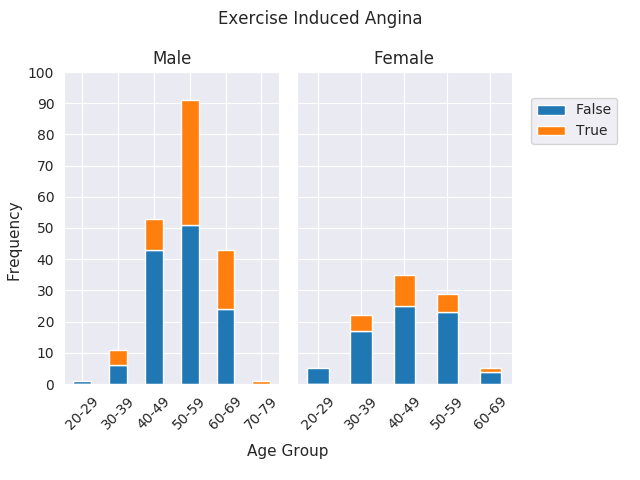
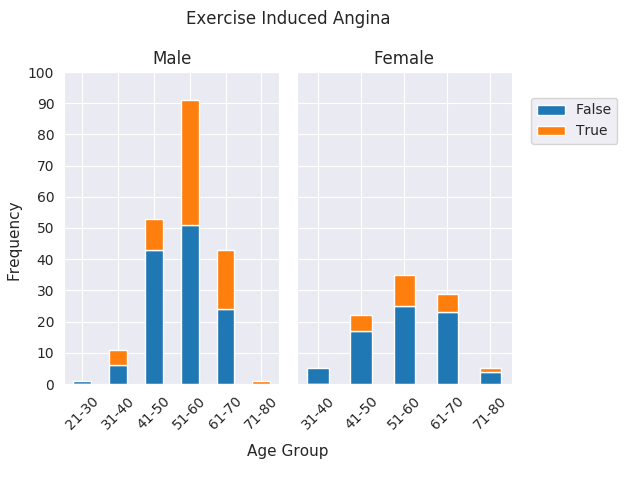
clean up formatting

diff --git a/Project/Visualization/graph.py b/Project/Visualization/graph.py
@@ -95,20 +95,26 @@ class graph:
         fig.suptitle('Resting Blood Pressure\n')
         ax1.set_title('Male')
         ax2.set_title('Female')
+        fig.text(x=0.54, y=0.04, horizontalalignment='center', s='Age', size=11)
 
         # X-Axis
         ax1.set_xlim(25,84)
         ax2.set_xlim(25,84)
         ax1.set_xticks(range(35, 84, 10))
         ax2.set_xticks(range(35, 84, 10))
+        ax1.set_xlabel('')
+        ax2.set_xlabel('')
 
         # Y-Axis
         ax1.set_ylim(90,210)
         ax2.set_ylim(90,210)
+        ax1.set_ylabel('RBP')
+        ax2.set_ylabel('')
+        ax2.set_yticklabels('')
 
         # Layout
         fig.tight_layout()
-        fig.subplots_adjust(top=0.85)
+        fig.subplots_adjust(top=0.85, bottom=0.15)
 
         # Save image
         plt.savefig(IMG_PATH + 'graph4.png')
@@ -137,22 +143,28 @@ class graph:
         fig.suptitle('Serum Cholesterol\n')
         ax1.set_title('Male')
         ax2.set_title('Female')
+        fig.text(x=0.54, y=0.04, horizontalalignment='center', s='Age', size=11)
 
         # X-Axis
         ax1.set_xlim(25,84)
         ax2.set_xlim(25,84)
         ax1.set_xticks(range(35, 84, 10))
         ax2.set_xticks(range(35, 84, 10))
+        ax1.set_xlabel('')
+        ax2.set_xlabel('')
 
         # Y-Axis
-        ax1.set_ylim(100, 580)
-        ax2.set_ylim(100, 580)
-        ax1.set_yticks(range(200, 600, 100))
-        ax2.set_yticks(range(200, 560, 100))
+        ax1.set_ylim(100, 600)
+        ax2.set_ylim(100, 600)
+        ax1.set_yticks(range(0, 601, 100))
+        ax2.set_yticks(range(0, 601, 100))
+        ax1.set_ylabel('Serum Cholesterol')
+        ax2.set_ylabel('')
+        ax2.set_yticklabels('')
 
         # Layout
         fig.tight_layout()
-        fig.subplots_adjust(top=0.85)
+        fig.subplots_adjust(top=0.85, bottom=0.15, left=0.12)
 
         # Save image
         plt.savefig(IMG_PATH + 'graph5.png')
@@ -193,7 +205,7 @@ class graph:
         ## Format Plot
 
         # Titles
-        fig.suptitle('Fast Blood Sugar > 120 mg/dl')
+        fig.suptitle('Fast Blood Sugar > 120 mg/dl', x=0.45)
         ax1.set_title('Male')
         ax2.set_title('Female')
 
@@ -204,8 +216,8 @@ class graph:
         ax1.set_yticks(range(0, 101, 10))
         ax2.set_yticks(range(0, 101, 10))
         ax2.set_yticklabels([])
-        ax1.set_xticklabels(["20-29", "30-39", "40-49", "50-59", "60-69", "70-79", "> 80"])
-        ax2.set_xticklabels(["20-29", "30-39", "40-49", "50-59", "60-69", "70-79", "> 80"])
+        ax1.set_xticklabels(["21-30", "31-40", "41-50", "51-60", "61-70", "71-80", "> 80"])
+        ax2.set_xticklabels(["21-30", "31-40", "41-50", "51-60", "61-70", "71-80", "> 80"])
         fig.text(x=0.01, y=0.5, verticalalignment='center',s='Frequency', rotation=90, size=11)
         fig.text(x=0.45, y=0.05, horizontalalignment='center', s='Age Group', size=11)
 
@@ -284,26 +296,33 @@ class graph:
         fig.suptitle('Max Heart Rate\n')
         ax1.set_title('Male')
         ax2.set_title('Female')
+        fig.text(x=0.54, y=0.04, horizontalalignment='center', s='Age', size=11)
 
         # X-Axis
         ax1.set_xlim(25,84)
         ax2.set_xlim(25,84)
         ax1.set_xticks(range(35, 84, 10))
         ax2.set_xticks(range(35, 84, 10))
+        ax1.set_xlabel('')
+        ax2.set_xlabel('')
 
         # Y-Axis
         ax1.set_ylim(65,219)
         ax2.set_ylim(65,219)
+        ax1.set_ylabel('Max Heart Rate')
+        ax2.set_ylabel('')
+        ax2.set_yticklabels('')
 
         # Layout
         fig.tight_layout()
-        fig.subplots_adjust(top=0.85)
+        fig.subplots_adjust(top=0.85, bottom=0.13)
 
         # Save image
         plt.savefig(IMG_PATH + 'graph8.png')
 
     # Exercice Induced Angina
     def create_plot_9(self):
+
         # Get data
         conn = sqlite3.connect(db.database_name)
         df = pd.read_sql_query('SELECT Age, Sex, EI_Angina FROM Heart;', conn)
@@ -336,7 +355,7 @@ class graph:
         ## Format Plot
 
         # Titles
-        fig.suptitle('Exercise Induced Angina')
+        fig.suptitle('Exercise Induced Angina', x=0.45)
         ax1.set_title('Male')
         ax2.set_title('Female')
 
@@ -347,8 +366,8 @@ class graph:
         ax1.set_yticks(range(0, 101, 10))
         ax2.set_yticks(range(0, 101, 10))
         ax2.set_yticklabels([])
-        ax1.set_xticklabels(["20-29", "30-39", "40-49", "50-59", "60-69", "70-79", "> 80"])
-        ax2.set_xticklabels(["20-29", "30-39", "40-49", "50-59", "60-69", "70-79", "> 80"])
+        ax1.set_xticklabels(["21-30", "31-40", "41-50", "51-60", "61-70", "71-80", "> 80"])
+        ax2.set_xticklabels(["31-40", "41-50", "51-60", "61-70", "71-80", "> 80"])
         fig.text(x=0.01, y=0.5, verticalalignment='center',s='Frequency', rotation=90, size=11)
         fig.text(x=0.45, y=0.05, horizontalalignment='center', s='Age Group', size=11)
 
@@ -359,6 +378,111 @@ class graph:
         # Save image
         plt.savefig(IMG_PATH + 'graph9.png')
 
+
+    # Slope
+    def create_plot_11(self):
+
+        # Get data
+        conn = sqlite3.connect(db.database_name)
+        df = pd.read_sql_query('SELECT Age, Sex, Slope FROM Heart;', conn)
+
+        # Divide data into male and female
+
+        sns.set_style('darkgrid')
+
+        male_df = df.query('Sex == 1')
+        male_df = male_df.drop('Sex', axis=1)
+
+        female_df = df.query('Sex == 0')
+        female_df = female_df.drop('Sex', axis=1)
+
+        # Aggregate the number of true/false, grouped by age bracket
+
+        male_df['count'] = 1
+        male_df[''] = pd.cut(male_df.Age, [20,30,40,50,60,70,80])
+        male_df = male_df.pivot_table('count', index='', columns='Slope', aggfunc='sum')
+
+        female_df['count'] = 1
+        female_df[''] = pd.cut(female_df.Age, [20,30,40,50,60,70,80])
+        female_df = female_df.pivot_table('count', index='', columns='Slope', aggfunc='sum')
+
+        # Generate the subplots
+        fig, axes = plt.subplots(nrows=1, ncols=2, )
+        ax1 = male_df.plot.bar(stacked=True, ax=axes[0], rot=45, legend=False)
+        ax2 = female_df.plot.bar(stacked=True, ax=axes[1], rot=45, legend=False)
+
+        ## Format Plot
+
+        # Titles
+        fig.suptitle('Slope', x=0.45)
+        ax1.set_title('Male')
+        ax2.set_title('Female')
+
+        # Legend
+        fig.legend(labels =['1', '2', '3'], loc = (0.83, 0.65), title='Slope')
+
+        # Axes labels
+        ax1.set_yticks(range(0, 101, 10))
+        ax2.set_yticks(range(0, 101, 10))
+        ax2.set_yticklabels([])
+        ax1.set_xticklabels(["21-30", "31-40", "41-50", "51-60", "61-70", "71-80", "> 80"])
+        ax2.set_xticklabels(["31-40", "41-50", "51-60", "61-70", "71-80", "> 80"])
+        fig.text(x=0.01, y=0.5, verticalalignment='center',s='Frequency', rotation=90, size=11)
+        fig.text(x=0.45, y=0.05, horizontalalignment='center', s='Age Group', size=11)
+
+        # Layout
+        fig.tight_layout()
+        fig.subplots_adjust(top=0.85, left=0.1, bottom=0.2, right=0.8)
+
+        # Save image
+        plt.savefig(IMG_PATH + 'graph11.png')
+
+
+    # Number of Vessels Coloured by Fluroscopy
+    def create_plot_12(self):
+
+        # Get data
+        conn = sqlite3.connect(db.database_name)
+        df = pd.read_sql_query('SELECT Age, Sex, Major_Vessels FROM Heart;', conn)
+
+        ## Plot histograms male and female by type
+
+        sns.set_style("darkgrid")               # set the background of the charts
+        bins = [20,30,40,50,60,70,80]           # group age by 10's
+        palette = {'color': ['b', 'r']}         # separate colours for male/female
+
+        g = sns.FacetGrid(df, row='Sex', col='Major_Vessels', hue='Sex',
+                margin_titles=True, hue_kws=palette)
+        g.map(sns.distplot, 'Age', bins=bins, kde=False,
+                hist_kws=dict(edgecolor="black", linewidth=1));
+
+        ## Format Plot
+
+        # Axis Limits
+        g.axes[1,0].set_ylim(0,50)
+        g.axes[1,0].set_xlim(20,80)
+        g.axes[1,0].set_xticks(range(20, 80, 10))
+
+        # Titles
+        plt.subplots_adjust(top=0.85, left=0.07, bottom=0.15)
+        g.fig.suptitle("Number of Vessels Coloured by Fluroscopy\n")
+        g.axes[0,0].set_title("0 Vessels")
+        g.axes[0,1].set_title("1 Vessel")
+        g.axes[0,2].set_title("2 Vessels")
+        g.axes[0,3].set_title("3 Vessels")
+
+        # Overall Labels
+        g.set_axis_labels('', '')
+        g.fig.text(x=0.01, y=0.5, verticalalignment='center',s='Frequency', rotation=90, size=11)
+        g.fig.text(x=0.5, y=0.01, horizontalalignment='center', s='Age', size=11)
+        gender_labels =  ["","","","Male","","","","Female"]
+        for i, ax in enumerate(g.axes.flat):
+            plt.setp(ax.texts, text=gender_labels[i], size=11)
+
+        g.set_xticklabels(rotation=45, labels=["20-29", "30-39", "40-49", "50-59", "60-69", "70-79", "> 80"])
+
+        # Save image
+        plt.savefig(IMG_PATH + 'graph12.png')
 
     # Thalassemia
     def create_plot_13(self):
@@ -414,7 +538,6 @@ if __name__ == '__main__':
 
     # Create graphs and save files
 
-    '''
     # Chest pain type
     g3 = graph(3, db)
     g3.create_plot_3()
@@ -442,13 +565,18 @@ if __name__ == '__main__':
     # Exercise Induced Angina
     g9 = graph(9, db)
     g9.create_plot_9()
-    '''
 
     # Oldpeak
 
-    # Slope
 
-    # Number Vessels Coloure by Flouroscopy
+    # Slope
+    g11 = graph(11,db)
+    g11.create_plot_11()
+
+    # Number Vessels Coloured by Flouroscopy
+    g12 = graph(12,db)
+    g12.create_plot_12()
+
 
     # Thalassemia
     g13 = graph(13, db)
